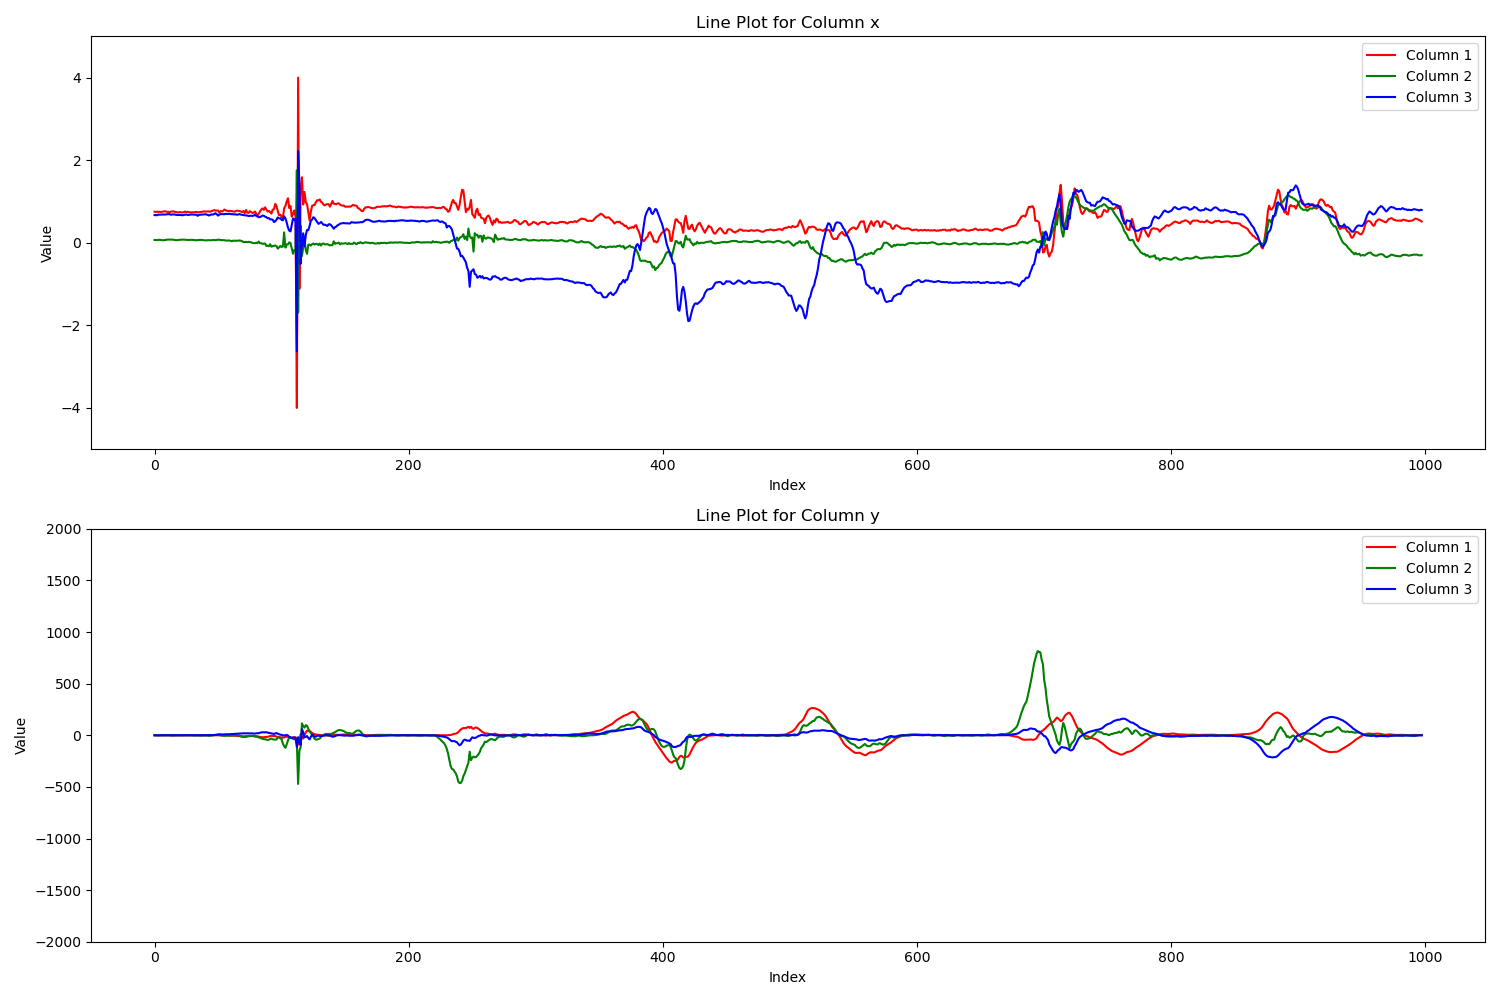
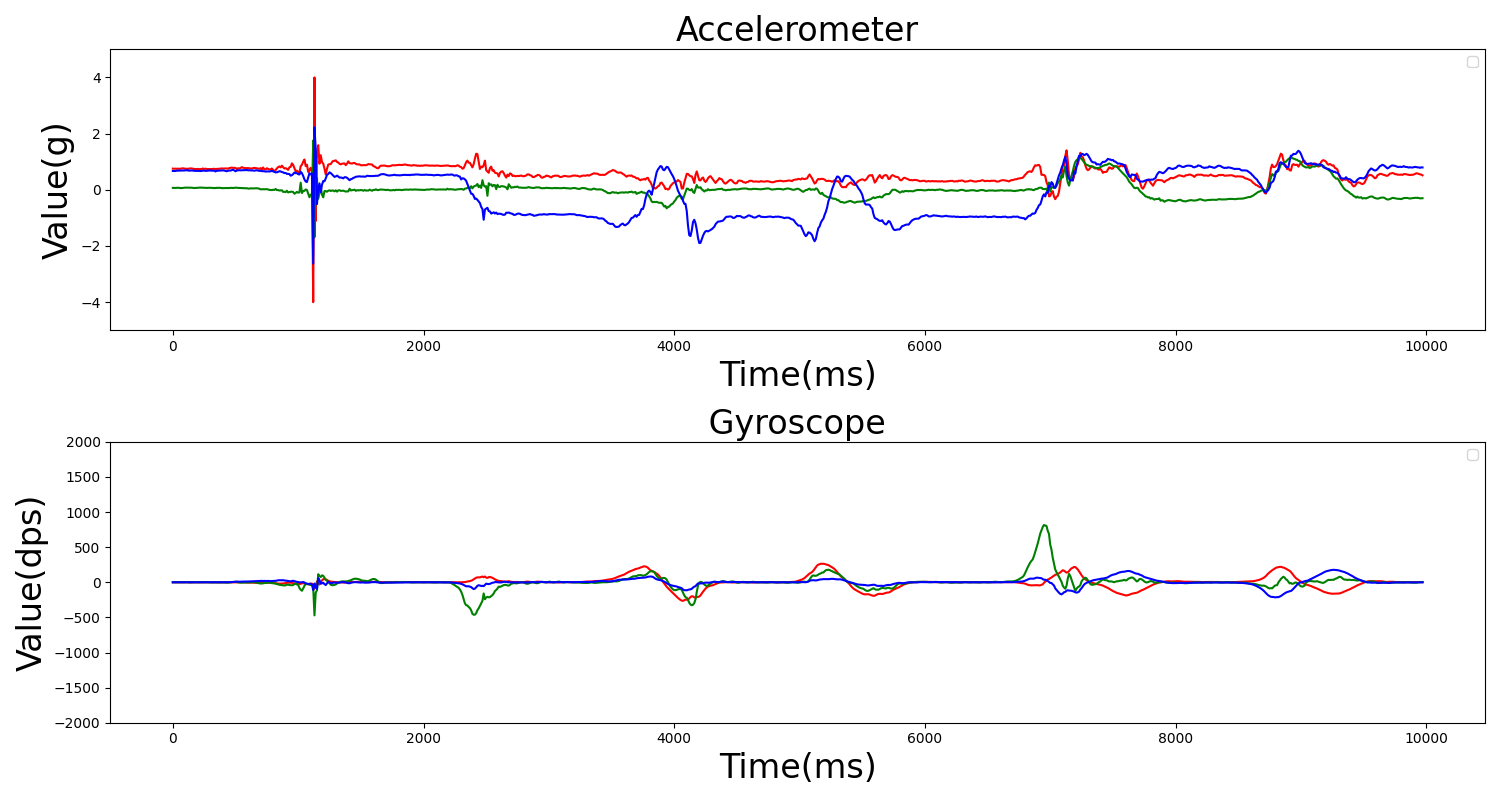
random_fo

diff --git a/src/data_exploration_6d.py b/src/data_exploration_6d.py
@@ -1,10 +1,10 @@
 import pandas as pd
 import matplotlib.pyplot as plt
 
-n = 'yc_01_011'
+n = 'tb_woquan'
 
 # Load the CSV file
-file_path = './data/'+ n +'.csv'
+file_path = './exp/'+ n +'.csv'
 data = pd.read_csv(file_path)
 
 # Display the dataframe to understand its structure
@@ -18,31 +18,33 @@ col4 = data.iloc[:, 3]
 col5 = data.iloc[:, 4]
 col6 = data.iloc[:, 5]
 
-# Plot the data
-plt.figure(figsize=(15, 10))
+plt.figure(figsize=(15, 8))
 
 # Plot for the first column
 plt.subplot(2, 1, 1)
-plt.plot(col1, label='Column 1', color='r')
-plt.plot(col2, label='Column 2', color='g')
-plt.plot(col3, label='Column 3', color='b')
-plt.title('Line Plot for Column x')
-plt.xlabel('Index')
-plt.ylabel('Value')
+plt.plot(range(0,len(col1)*10,10), col1, color='r')
+plt.plot(range(0,len(col1)*10,10), col2, color='g')
+plt.plot(range(0,len(col1)*10,10), col3, color='b')
+
+
+plt.title('Accelerometer', fontsize=24)
+plt.xlabel('Time(ms)', fontsize=24)
+plt.ylabel('Value(g)', fontsize=24)
 plt.ylim(-5, 5)
 plt.legend()
 
 # Plot for the second column
 plt.subplot(2, 1, 2)
-plt.plot(col4, label='Column 1', color='r')
-plt.plot(col5, label='Column 2', color='g')
-plt.plot(col6, label='Column 3', color='b')
-plt.title('Line Plot for Column y')
-plt.xlabel('Index')
-plt.ylabel('Value')
+plt.plot(range(0,len(col1)*10,10),col4, color='r')
+plt.plot(range(0,len(col1)*10,10),col5, color='g')
+plt.plot(range(0,len(col1)*10,10),col6, color='b')
+
+
+plt.title(' Gyroscope ', fontsize=24)
+plt.xlabel('Time(ms)', fontsize=24)
+plt.ylabel('Value(dps)', fontsize=24)
 plt.ylim(-2000, 2000)
 plt.legend()
-
 
 # Show the plots
 plt.tight_layout()

diff --git a/src/gesture_recognition.py b/src/gesture_recognition.py
@@ -11,6 +11,7 @@ from sklearn.metrics import classification_report, accuracy_score
 from sklearn.neighbors import KNeighborsClassifier
 from sklearn.tree import DecisionTreeClassifier
 from sklearn.linear_model import LogisticRegression
+from sklearn.ensemble import RandomForestClassifier
 import joblib
 
 sampling_rate = 100
@@ -149,6 +150,21 @@ print("Accuracy:", accuracy_score(y_test, y_pred))
 
 #--------------------------------------------------
 clf = LogisticRegression(random_state=0)
+clf.fit(X_train, y_train)
+# Make predictions
+y_pred = clf.predict(X_test)
+print(y_pred)
+print(y_test)
+np.set_printoptions(suppress=True, precision=4)
+print(clf.predict_proba(X_test))
+
+# Evaluate the classifier
+print("Classification Report:")
+print(classification_report(y_test, y_pred))
+print("Accuracy:", accuracy_score(y_test, y_pred))
+
+#--------------------------------------------------
+clf = RandomForestClassifier(n_estimators=100, random_state=42)
 clf.fit(X_train, y_train)
 # Make predictions
 y_pred = clf.predict(X_test)

diff --git a/model/vi_model.py b/model/vi_model.py
@@ -1,0 +1,22 @@
+import joblib
+
+# 加载模型
+clf = joblib.load('./model/decision_tree_model.pkl')
+
+# 打印模型
+print(clf)
+
+from pprint import pprint
+pprint(vars(clf))
+
+from sklearn.tree import export_text
+
+tree_rules = export_text(clf)
+print(tree_rules)
+
+import matplotlib.pyplot as plt
+from sklearn.tree import plot_tree
+
+plt.figure(figsize=(20,10))
+plot_tree(clf, filled=True, feature_names=['feature1', 'feature2', 'feature3', 'feature4'], class_names=['class1', 'class2'])
+plt.show()
